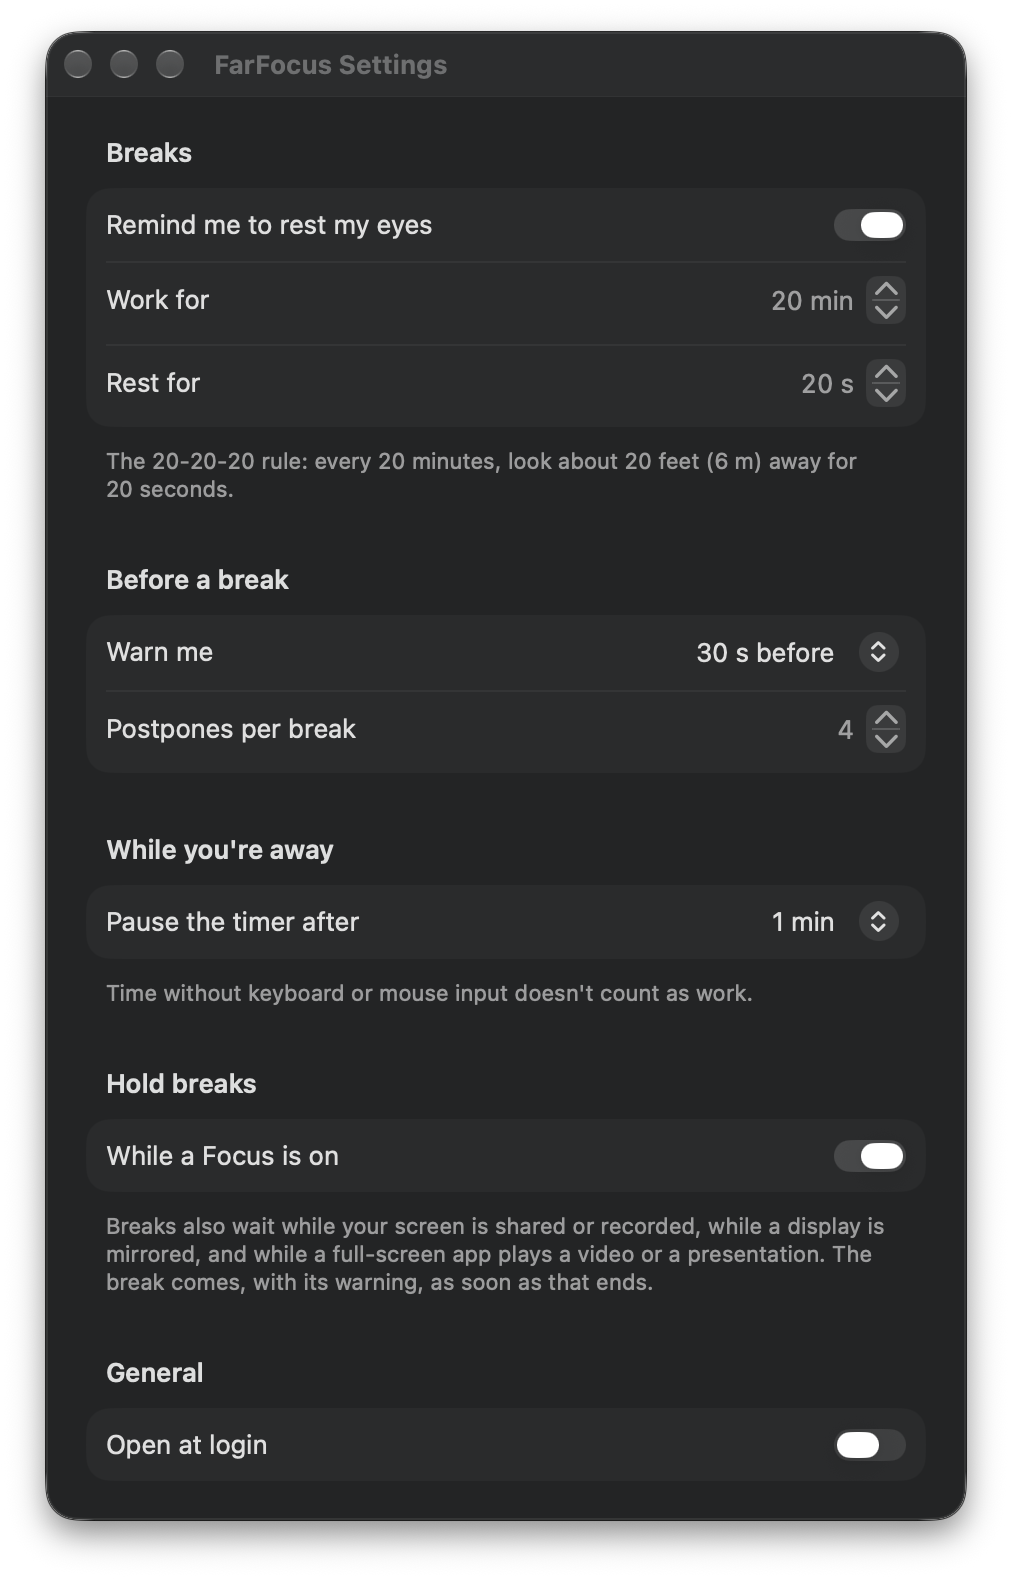
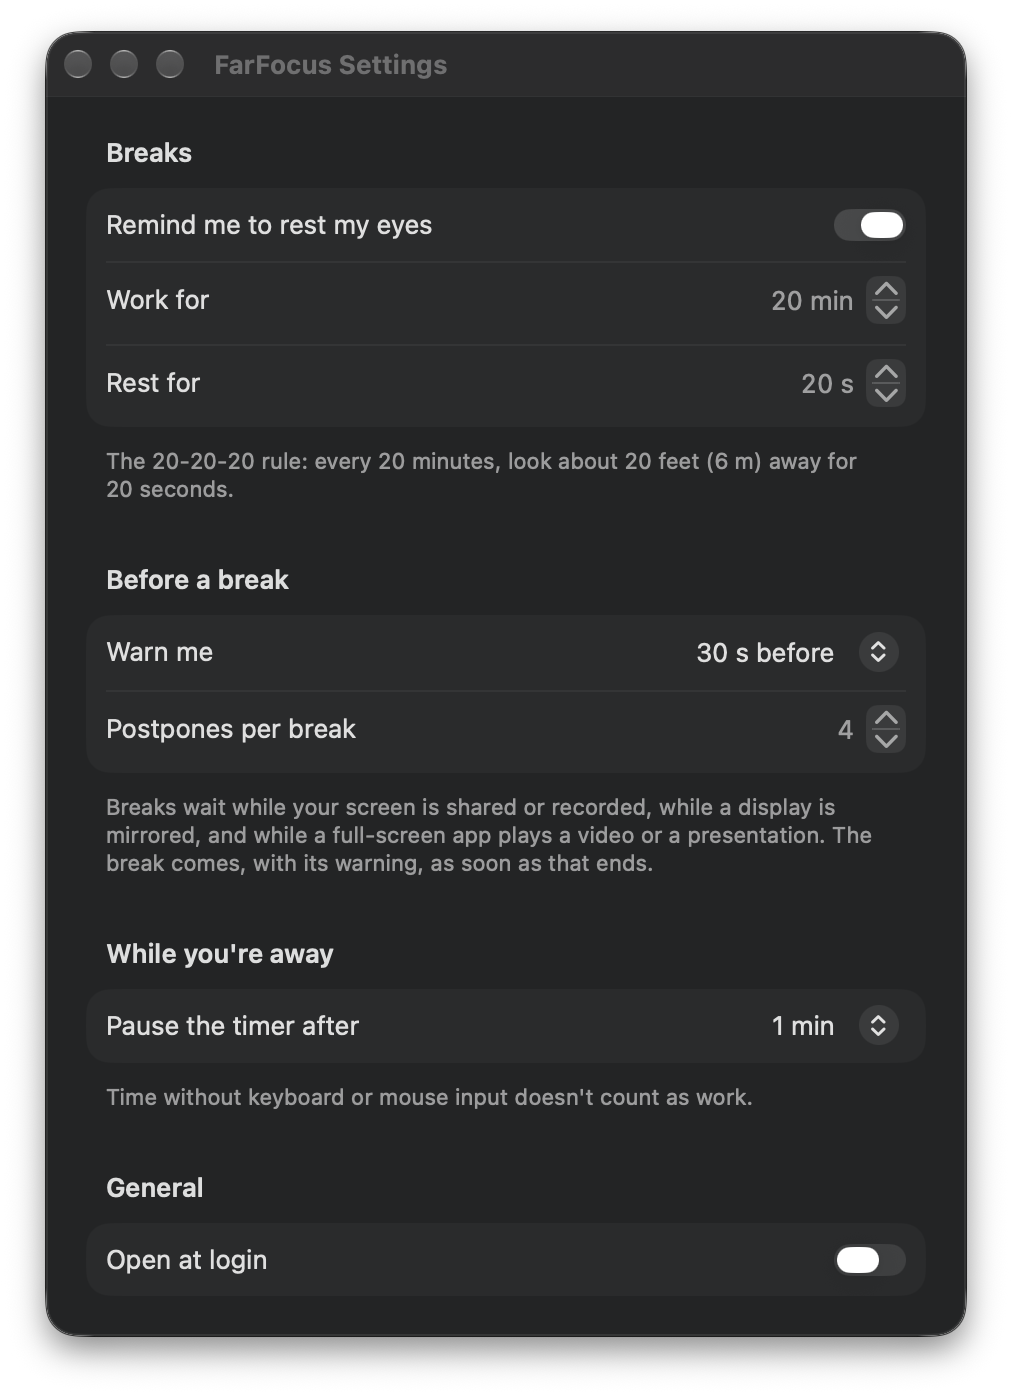
Remove the Focus hold (v1.0.1)
The "Hold breaks while a Focus is on" setting never worked: macOS only reports Focus status to apps with Apple's Communication Notifications entitlement, so FarFocus always saw no Focus. The setting, the Focus Status permission request and the Intents framework are removed; an old setting from v1.0 is ignored and cleaned up. Version 1.0.1 (build 2). FarFocus now asks for no permissions.

diff --git a/Sources/FarFocus/UI/SettingsView.swift b/Sources/FarFocus/UI/SettingsView.swift
@@ -4,7 +4,6 @@ import SwiftUI
 /// Native settings: grouped form, system appearance, nothing custom where macOS has a control.
 struct SettingsView: View {
     @Bindable var settings: AppSettings
-    var focusPermissionDenied: Bool
     @State private var openAtLogin = LoginItem.isOn
     @State private var loginNeedsApproval = LoginItem.needsApproval
 
@@ -23,12 +22,17 @@ struct SettingsView: View {
                     .foregroundStyle(.secondary)
             }
 
-            Section("Before a break") {
+            Section {
                 Picker("Warn me", selection: $settings.warningLeadSeconds) {
                     ForEach(BreakSettings.warningLeadChoices, id: \.self) { Text("\($0) s before").tag($0) }
                 }
                 StepperRow(title: "Postpones per break", value: $settings.postponeLimit,
                            range: BreakSettings.postponeLimitRange, step: 1) { $0 == 0 ? "None" : "\($0)" }
+            } header: {
+                Text("Before a break")
+            } footer: {
+                Text("Breaks wait while your screen is shared or recorded, while a display is mirrored, and while a full-screen app plays a video or a presentation. The break comes, with its warning, as soon as that ends.")
+                    .foregroundStyle(.secondary)
             }
 
             Section {
@@ -40,21 +44,6 @@ struct SettingsView: View {
             } footer: {
                 Text("Time without keyboard or mouse input doesn't count as work.")
                     .foregroundStyle(.secondary)
-            }
-
-            Section {
-                Toggle("While a Focus is on", isOn: $settings.holdDuringFocus)
-            } header: {
-                Text("Hold breaks")
-            } footer: {
-                VStack(alignment: .leading, spacing: 4) {
-                    Text("Breaks also wait while your screen is shared or recorded, while a display is mirrored, and while a full-screen app plays a video or a presentation. The break comes, with its warning, as soon as that ends.")
-                    if settings.holdDuringFocus && focusPermissionDenied {
-                        Text("FarFocus can't see your Focus: allow it in System Settings › Privacy & Security › Focus.")
-                            .foregroundStyle(.orange)
-                    }
-                }
-                .foregroundStyle(.secondary)
             }
 
             Section("General") {
@@ -108,14 +97,12 @@ private struct StepperRow: View {
 final class SettingsWindow {
     static let shared = SettingsWindow()
     private(set) var window: NSWindow?
-    var focusPermissionDenied: () -> Bool = { false }
 
     var isVisible: Bool { window?.isVisible == true }
 
     func show() {
         if window == nil {
-            let host = NSHostingView(rootView: SettingsView(settings: AppSettings.shared,
-                                                            focusPermissionDenied: focusPermissionDenied()))
+            let host = NSHostingView(rootView: SettingsView(settings: AppSettings.shared))
             let window = NSWindow(contentRect: NSRect(origin: .zero, size: host.fittingSize),
                                   styleMask: [.titled, .closable, .miniaturizable],
                                   backing: .buffered, defer: false)

diff --git a/Sources/FarFocus/System/HoldDetector.swift b/Sources/FarFocus/System/HoldDetector.swift
@@ -1,23 +1,21 @@
 import AppKit
 import CoreGraphics
-import Intents
 import IOKit.pwr_mgt
 
-/// Answers "should a due break wait right now?". Every check is cheap and needs no permission
-/// (Focus asks once for the system's Focus Status permission).
+/// Answers "should a due break wait right now?". Every check is cheap and needs no permission.
+/// Focus / Do Not Disturb is not one of them: macOS only reports Focus to messaging apps (see the README).
 @MainActor
 final class HoldDetector {
 
-    /// Demo/testing override: `FARFOCUS_FAKE_HOLD=share|mirror|media|focus`.
+    /// Demo/testing override: `FARFOCUS_FAKE_HOLD=share|mirror|media`.
     var forced: HoldReason?
 
-    func current(respectFocus: Bool) -> HoldReason? {
+    func current() -> HoldReason? {
         if let forced { return forced }
         if Demo.ignoreHolds { return nil }
         if Self.screenIsCaptured() { return .screenShared }
         if Self.displayIsMirrored() { return .mirroredDisplay }
         if Self.fullScreenMediaIsPlaying() { return .fullScreenMedia }
-        if respectFocus && focusIsOn() { return .focus }
         return nil
     }
 
@@ -101,28 +99,5 @@ final class HoldDetector {
         if ownedByFrontmost { return true }
         let name = (assertion[kIOPMAssertionNameKey as String] as? String ?? "").lowercased()
         return ["media", "video", "playback", "presentation", "slideshow"].contains { name.contains($0) }
-    }
-
-    // MARK: Focus
-
-    private var askedForFocus = false
-
-    /// Asks for the Focus Status permission once (macOS shows its own prompt the first time).
-    func prepareFocus() {
-        guard !askedForFocus else { return }
-        askedForFocus = true
-        if INFocusStatusCenter.default.authorizationStatus == .notDetermined {
-            INFocusStatusCenter.default.requestAuthorization { _ in }
-        }
-    }
-
-    var focusPermissionDenied: Bool {
-        let status = INFocusStatusCenter.default.authorizationStatus
-        return status == .denied || status == .restricted
-    }
-
-    func focusIsOn() -> Bool {
-        guard INFocusStatusCenter.default.authorizationStatus == .authorized else { return false }
-        return INFocusStatusCenter.default.focusStatus.isFocused ?? false
     }
 }

diff --git a/Tests/FarFocusTests/HoldAndSettingsTests.swift b/Tests/FarFocusTests/HoldAndSettingsTests.swift
@@ -41,7 +41,7 @@ struct HoldRuleTests {
     }
 
     @Test func holdReasonsExplainThemselves() {
-        for reason in [HoldReason.screenShared, .mirroredDisplay, .fullScreenMedia, .focus] {
+        for reason in [HoldReason.screenShared, .mirroredDisplay, .fullScreenMedia] {
             #expect(!reason.explanation.isEmpty)
         }
     }
@@ -59,7 +59,7 @@ struct SavedSettingsTests {
 
     @Test func defaultsMatchTheEngine() {
         let s = AppSettings(store: MemoryStore())
-        #expect(s.enabled && s.holdDuringFocus)
+        #expect(s.enabled)
         #expect(s.breakSettings == BreakSettings())
     }
 
@@ -74,6 +74,27 @@ struct SavedSettingsTests {
         #expect(calls == 2)
         #expect(AppSettings(store: store).breakSettings.workInterval == 2700)
         #expect(AppSettings(store: store).breakSettings.postponeLimit == 0)
+    }
+
+    @Test func aV1SettingsFileWithTheOldFocusSwitchStillLoads() {
+        let store = MemoryStore()
+        store.values = [AppSettings.Keys.legacyHoldDuringFocus: true, AppSettings.Keys.workMinutes: 30,
+                        AppSettings.Keys.enabled: false]
+        let s = AppSettings(store: store)
+        #expect(s.workMinutes == 30 && !s.enabled, "the other settings survive")
+        #expect(store.values[AppSettings.Keys.legacyHoldDuringFocus] == nil, "the old key is tidied away")
+        #expect(AppSettings(store: store).workMinutes == 30)
+    }
+
+    @Test func theAppAsksForNoPermission() throws {
+        // v1.0.1: no Focus Status (or any other) usage description in the bundle.
+        let plist = URL(fileURLWithPath: #filePath)
+            .deletingLastPathComponent().deletingLastPathComponent().deletingLastPathComponent()
+            .appendingPathComponent("Resources/Info.plist")
+        let dict = try #require(NSDictionary(contentsOf: plist) as? [String: Any])
+        #expect(dict.keys.filter { $0.hasSuffix("UsageDescription") }.isEmpty)
+        #expect(dict["CFBundleShortVersionString"] as? String == "1.0.1")
+        #expect(dict["CFBundleVersion"] as? String == "2")
     }
 
     @Test func outOfRangeValuesAreRepaired() {

diff --git a/Sources/FarFocus/App/FarFocusController.swift b/Sources/FarFocus/App/FarFocusController.swift
@@ -38,9 +38,6 @@ final class FarFocusController {
 
     func start() {
         holds.forced = Demo.fakeHold
-        // Screenshot modes never ask for permissions.
-        if settings.holdDuringFocus && (!Demo.isOn || Demo.mode == "live") { holds.prepareFocus() }
-        SettingsWindow.shared.focusPermissionDenied = { [holds] in holds.focusPermissionDenied }
 
         settings.onChange = { [weak self] in self?.settingsChanged() }
 
@@ -87,7 +84,7 @@ final class FarFocusController {
         let dt = t - lastTick
         lastTick = t
         if !frozen {
-            let hold = engine.wantsHoldCheck ? holds.current(respectFocus: settings.holdDuringFocus) : nil
+            let hold = engine.wantsHoldCheck ? holds.current() : nil
             engine.advance(by: dt, idle: IdleTime.seconds(), hold: hold)
         }
         // The second half of the safety net: a break on screen far too long ends, whatever the engine says.
@@ -106,7 +103,7 @@ final class FarFocusController {
         let t = now
         if !frozen {
             // Bank the time since the last tick first, so an action never loses or double-counts seconds.
-            let hold = engine.wantsHoldCheck ? holds.current(respectFocus: settings.holdDuringFocus) : nil
+            let hold = engine.wantsHoldCheck ? holds.current() : nil
             engine.advance(by: t - lastTick, idle: IdleTime.seconds(), hold: hold)
         }
         lastTick = t
@@ -118,7 +115,6 @@ final class FarFocusController {
     private func settingsChanged() {
         if settings.enabled != engine.isEnabled { engine.setEnabled(settings.enabled) }
         engine.apply(settings.breakSettings)
-        if settings.holdDuringFocus && (!Demo.isOn || Demo.mode == "live") { holds.prepareFocus() }
         render()
         scheduleTick(after: engine.tickInterval)
     }

diff --git a/Sources/FarFocus/App/AppSettings.swift b/Sources/FarFocus/App/AppSettings.swift
@@ -13,7 +13,6 @@ final class AppSettings {
     var warningLeadSeconds: Int { didSet { save(warningLeadSeconds, Keys.warningLead) } }
     var postponeLimit: Int { didSet { save(postponeLimit, Keys.postponeLimit) } }
     var idleThresholdSeconds: Int { didSet { save(idleThresholdSeconds, Keys.idleThreshold) } }
-    var holdDuringFocus: Bool { didSet { save(holdDuringFocus, Keys.holdDuringFocus) } }
 
     /// Called after any change that affects the cycle.
     @ObservationIgnored var onChange: (() -> Void)?
@@ -26,7 +25,8 @@ final class AppSettings {
         static let warningLead = "warningLeadSeconds"
         static let postponeLimit = "postponeLimit"
         static let idleThreshold = "idleThresholdSeconds"
-        static let holdDuringFocus = "holdDuringFocus"
+        /// v1.0 stored "hold breaks while a Focus is on" here; removed in v1.0.1 (macOS never told the app).
+        static let legacyHoldDuringFocus = "holdDuringFocus"
     }
 
     init(store: SettingsStore) {
@@ -43,7 +43,8 @@ final class AppSettings {
                                    BreakSettings.postponeLimitRange)
         idleThresholdSeconds = Self.pick(store.object(forKey: Keys.idleThreshold) as? Int ?? Int(d.idleThreshold),
                                          BreakSettings.idleThresholdChoices, fallback: Int(d.idleThreshold))
-        holdDuringFocus = store.object(forKey: Keys.holdDuringFocus) as? Bool ?? true
+        // A v1.0 settings file may still hold the old Focus switch: ignore it and tidy it away.
+        if store.object(forKey: Keys.legacyHoldDuringFocus) != nil { store.set(nil, forKey: Keys.legacyHoldDuringFocus) }
     }
 
     /// The cycle's numbers. Demo mode can shrink them to seconds to watch a whole cycle quickly.

diff --git a/Tests/FarFocusTests/EngineTests.swift b/Tests/FarFocusTests/EngineTests.swift
@@ -311,7 +311,7 @@ struct HoldTests {
 
     @Test func holdsDoNotMatterFarFromTheBreak() {
         var e = FarFocusEngine()
-        run(&e, 100, hold: .focus)
+        run(&e, 100, hold: .mirroredDisplay)
         #expect(e.hold == nil && e.remaining == 1100)
     }
 
@@ -337,6 +337,17 @@ struct HoldTests {
         #expect(e.phase == .breaking)
         run(&e, 5, hold: .screenShared)
         #expect(e.phase == .breaking && e.remaining == 14)
+    }
+
+    @Test func everyRemainingHoldStillHoldsTheBreak() {
+        for reason in [HoldReason.screenShared, .mirroredDisplay, .fullScreenMedia] {
+            var e = FarFocusEngine()
+            run(&e, 1170, hold: reason)
+            #expect(e.phase == .working && e.hold == reason && e.surface == .none, "\(reason)")
+            #expect(StatusText.label(for: e) == "due")
+            run(&e, 1)
+            #expect(e.phase == .warning && e.surface == .card, "\(reason): the full warning when it ends")
+        }
     }
 
     @Test func holdCheckOnlyNearTheBreak() {

diff --git a/Sources/FarFocus/App/Demo.swift b/Sources/FarFocus/App/Demo.swift
@@ -10,7 +10,7 @@ import AppKit
 ///     FARFOCUS_DEMO=live        …   # runs for real, with the short intervals below
 ///
 /// `FARFOCUS_WORK_SECONDS`, `FARFOCUS_BREAK_SECONDS`, `FARFOCUS_LEAD_SECONDS` shrink the cycle (live mode).
-/// `FARFOCUS_FAKE_HOLD=share|mirror|media|focus` pretends a hold is active.
+/// `FARFOCUS_FAKE_HOLD=share|mirror|media` pretends a hold is active.
 /// Testing: `FARFOCUS_IDLE_SECONDS` (a short idle threshold), `FARFOCUS_TEST_STALL=1` (the timer stops when a
 /// break starts, so only the safety net can end it), `FARFOCUS_LOG=1` (state changes to stderr),
 /// `FARFOCUS_REDUCE_MOTION=1`, and the `FarFocus.test.lock` / `FarFocus.test.unlock` distributed notifications.
@@ -51,7 +51,6 @@ enum Demo {
         case "share": return .screenShared
         case "mirror": return .mirroredDisplay
         case "media": return .fullScreenMedia
-        case "focus": return .focus
         default: return nil
         }
     }

diff --git a/Sources/FarFocus/Engine/BreakSettings.swift b/Sources/FarFocus/Engine/BreakSettings.swift
@@ -48,7 +48,6 @@ enum HoldReason: Equatable, Sendable {
     case screenShared
     case mirroredDisplay
     case fullScreenMedia
-    case focus
 
     /// For the menu: "Holding: …".
     var explanation: String {
@@ -56,7 +55,6 @@ enum HoldReason: Equatable, Sendable {
         case .screenShared: "your screen is being shared or recorded"
         case .mirroredDisplay: "your display is mirrored"
         case .fullScreenMedia: "a full-screen video or presentation is playing"
-        case .focus: "a Focus is on"
         }
     }
 }

diff --git a/README.md b/README.md
@@ -36,16 +36,15 @@ Then you're back to work and the next cycle starts.
 - **Holds instead of interrupting.** A due break waits ("due" in the menu bar) while:
   - your screen is **shared or recorded**,
   - a display is **mirrored**,
-  - a **full-screen app plays a video or a slideshow**,
-  - a **Focus** is on (a setting, on by default).
+  - a **full-screen app plays a video or a slideshow**.
 
   When that ends, the full warning comes first, so a break never arrives unannounced. A hold doesn't use a postpone.
 - **Sleep and lock count.** If your Mac sleeps, its displays turn off or it's locked for at least a break's
   length, that counts as the break. Anything shorter resumes where it was.
 - **Menu bar.** An ∞ with the minutes left (`18m`), seconds during the warning, `due` while held, dimmed when off.
   Click it for **Break now**, an on/off switch, quick **Every** and **Rest** pickers, Settings and Quit.
-- **Settings.** Work and rest length, warning lead (10–90 s), postpones per break, idle threshold, hold during
-  Focus, open at login. On/off is remembered.
+- **Settings.** Work and rest length, warning lead (10–90 s), postpones per break, idle threshold, open at login.
+  On/off is remembered.
 - Reduce Motion and Reduce Transparency respected. Native SwiftUI + AppKit, no third-party dependencies,
   about 0 % CPU between breaks.
 
@@ -96,9 +95,8 @@ Launch the app from Finder or with `open`, not by running the binary from a term
 
 ## Permissions and privacy
 
-- **Focus Status** is the only permission FarFocus asks for, once at launch while "Hold breaks while a Focus is
-  on" is on. It only reads whether a Focus is on.
-- **No Accessibility, Screen Recording or Input Monitoring.** The break windows take the keyboard while they're
+- **No permissions.** FarFocus asks for none: no Accessibility, Screen Recording, Input Monitoring or Focus Status.
+- **Esc without permissions.** The break windows take the keyboard while they're
   shown, so Esc works without any permission. A global Esc listener only ever reacts to the Esc key, and only
   if you've already granted Accessibility for another reason.
 - To tell whether your screen is shared or recorded, FarFocus asks macOS a yes/no question
@@ -114,7 +112,7 @@ Launch the app from Finder or with `open`, not by running the binary from a term
 |---|---|
 | The rules: phases, postpones, idle, holds, sleep (pure, unit-tested) | `Sources/FarFocus/Engine/FarFocusEngine.swift` |
 | Timer, Esc, safety net, wiring | `Sources/FarFocus/App/FarFocusController.swift` |
-| Screen sharing, mirroring, full-screen media, Focus | `Sources/FarFocus/System/HoldDetector.swift` |
+| Screen sharing, mirroring, full-screen media | `Sources/FarFocus/System/HoldDetector.swift` |
 | Sleep, lock and idle time | `Sources/FarFocus/System/SleepWatcher.swift`, `IdleTime.swift` |
 | Warning card, countdown, break windows | `Sources/FarFocus/UI/` |
 
@@ -123,7 +121,10 @@ Launch the app from Finder or with `open`, not by running the binary from a term
 - The screen-sharing check uses a private macOS call; if a future macOS removes it, that one check is skipped.
 - Full-screen video and slideshow detection relies on display-sleep assertions, so an app that doesn't set them
   isn't detected.
-- The Focus hold needs the Focus Status permission; without it, breaks don't wait for a Focus.
+- Focus / Do Not Disturb isn't detected. macOS only tells messaging apps (those with Apple's Communication
+  Notifications entitlement) whether a Focus is on, so FarFocus can't see it. If you don't want a break during a
+  Focus, postpone it or switch FarFocus off from the menu bar. (v1.0 had a "hold during Focus" switch; it never
+  worked and was removed in 1.0.1.)
 - English UI only.
 
 Bug reports and pull requests are welcome.
